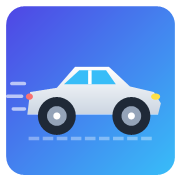
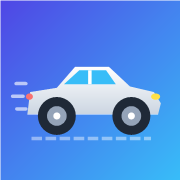
Add files via upload

diff --git a/app.js b/app.js
@@ -119,13 +119,54 @@ function speakTTS(text) {
   } catch (e) { return false; }
 }
 
-/* ---------- 对/错音效提示（WebAudio，无需联网） ---------- */
+/* ---------- iOS 兼容音频内核：首次用户手势解锁 AudioContext，后续异步播放不被拦截 ---------- */
 let _actx = null;
+function ensureCtx() {
+  _actx = _actx || new (window.AudioContext || window.webkitAudioContext)();
+  if (_actx.state === "suspended") _actx.resume().catch(() => {});
+  return _actx;
+}
+function unlockAudio() {
+  try {
+    const ctx = ensureCtx();
+    const buf = ctx.createBuffer(1, 1, ctx.sampleRate);
+    const src = ctx.createBufferSource();
+    src.buffer = buf; src.connect(ctx.destination); src.start(0);
+  } catch (e) { /* 忽略 */ }
+}
+document.addEventListener("pointerdown", unlockAudio, { once: true, capture: true });
+document.addEventListener("keydown", unlockAudio, { once: true, capture: true });
+
+function dataUrlToBuffer(u) {
+  const bin = atob(u.split(",")[1] || "");
+  const arr = new Uint8Array(bin.length);
+  for (let i = 0; i < bin.length; i++) arr[i] = bin.charCodeAt(i);
+  return arr.buffer;
+}
+
+/* 用 WebAudio 解码播放（iOS 上唯一可靠的异步播放途径） */
+async function playBuf(buf) {
+  const ctx = ensureCtx();
+  try {
+    const ab = await ctx.decodeAudioData(buf.slice(0));
+    const s = ctx.createBufferSource();
+    s.buffer = ab; s.connect(ctx.destination); s.start(0);
+  } catch (e) {
+    // 解码失败退回 ObjectURL+Audio（桌面浏览器可用）
+    try {
+      const url = URL.createObjectURL(new Blob([buf], { type: "audio/mpeg" }));
+      const a = new Audio(url);
+      a.play().catch(() => {});
+      setTimeout(() => URL.revokeObjectURL(url), 10000);
+    } catch (e2) { /* 忽略 */ }
+  }
+}
+
+/* ---------- 对/错音效提示（WebAudio，无需联网） ---------- */
 function playSfx(type) {
   try {
-    _actx = _actx || new (window.AudioContext || window.webkitAudioContext)();
-    if (_actx.state === "suspended") _actx.resume();
-    const t = _actx.currentTime;
+    const ctx = ensureCtx();
+    const t = ctx.currentTime;
     if (type === "ok") { [1046.5, 1318.5, 1568.0].forEach((f, i) => beep(f, t + i * .09, .18, "sine", .22)); }
     else { beep(200, t, .22, "square", .18); beep(150, t + .16, .3, "square", .18); }
   } catch (e) { /* 忽略 */ }
@@ -140,16 +181,21 @@ function beep(freq, start, dur, wave, vol) {
   o.start(start); o.stop(start + dur + .05);
 }
 
-/* 播放发音：缩略词若有全称，优先读全称的发音；本地缓存 → 网络音频(顺手缓存) → 浏览器 TTS 兜底 */
+/* 播放发音：缩略词有全称时优先读全称；缓存/网络音频 → WebAudio 直放 → TTS 兜底 */
 async function playAudio(entry) {
   if (!entry) return;
   const text = entry.full || entry.word;
   const cacheKey = text.toLowerCase();
-  const cached = await idbGet(cacheKey);
-  if (cached) { new Audio(cached).play().catch(() => speakTTS(text)); return; }
+  try {
+    let cached = await idbGet(cacheKey);
+    if (cached) {
+      if (typeof cached === "string") cached = dataUrlToBuffer(cached); // 兼容旧版 dataURL 缓存
+      await playBuf(cached);
+      return;
+    }
+  } catch (e) { /* 继续 */ }
   let url = entry.full ? entry.fullAudioUrl : entry.audioUrl;
   if (!url) {
-    // 未缓存音频：联网查该文本的发音音频并记入词条
     try {
       const d = await fetchDictionary(text);
       if (d.audioUrl) {
@@ -161,18 +207,16 @@ async function playAudio(entry) {
   }
   if (url) {
     try {
-      const resp = await fetch(url);
+      const resp = await fetchWithTimeout(url, 8000);
       if (resp.ok) {
-        const blob = await resp.blob();
-        const dataUrl = await blobToDataURL(blob);
-        await idbPut(cacheKey, dataUrl);
-        new Audio(dataUrl).play().catch(() => speakTTS(text));
+        const buf = await resp.arrayBuffer();
+        try { await idbPut(cacheKey, buf.slice(0)); } catch (e) { /* 存缓存失败不影响播放 */ }
+        await playBuf(buf);
         return;
       }
     } catch (e) {
-      // fetch 被 CORS 拦截时直接流式播放
-      const a = new Audio(url);
-      a.play().then(() => {}).catch(() => speakTTS(text));
+      // fetch 被 CORS 拦截（iPhone 上常见）：直接用 TTS 读，避免无声
+      speakTTS(text);
       return;
     }
   }

diff --git a/index.html b/index.html
@@ -5,7 +5,11 @@
 <meta name="viewport" content="width=device-width, initial-scale=1.0, viewport-fit=cover">
 <title>Vehicle English</title>
 <link rel="manifest" href="manifest.webmanifest">
-<link rel="apple-touch-icon" href="icons/icon-180.png">
+<link rel="apple-touch-icon" sizes="120x120" href="icons/icon-120.png">
+<link rel="apple-touch-icon" sizes="152x152" href="icons/icon-152.png">
+<link rel="apple-touch-icon" sizes="180x180" href="icons/icon-180.png">
+<link rel="apple-touch-icon" href="apple-touch-icon.png">
+<link rel="icon" type="image/png" sizes="180x180" href="icons/icon-180.png">
 <meta name="apple-mobile-web-app-capable" content="yes">
 <meta name="mobile-web-app-capable" content="yes">
 <meta name="apple-mobile-web-app-status-bar-style" content="default">

diff --git a/sw.js b/sw.js
@@ -1,11 +1,14 @@
 /* Vehicle English PWA Service Worker：应用壳离线缓存 */
-const CACHE = "ve-cache-v1";
+const CACHE = "ve-cache-v3";
 const SHELL = [
   "./",
   "./index.html",
   "./style.css",
   "./app.js",
   "./manifest.webmanifest",
+  "./apple-touch-icon.png",
+  "./icons/icon-120.png",
+  "./icons/icon-152.png",
   "./icons/icon-180.png",
   "./icons/icon-512.png"
 ];
